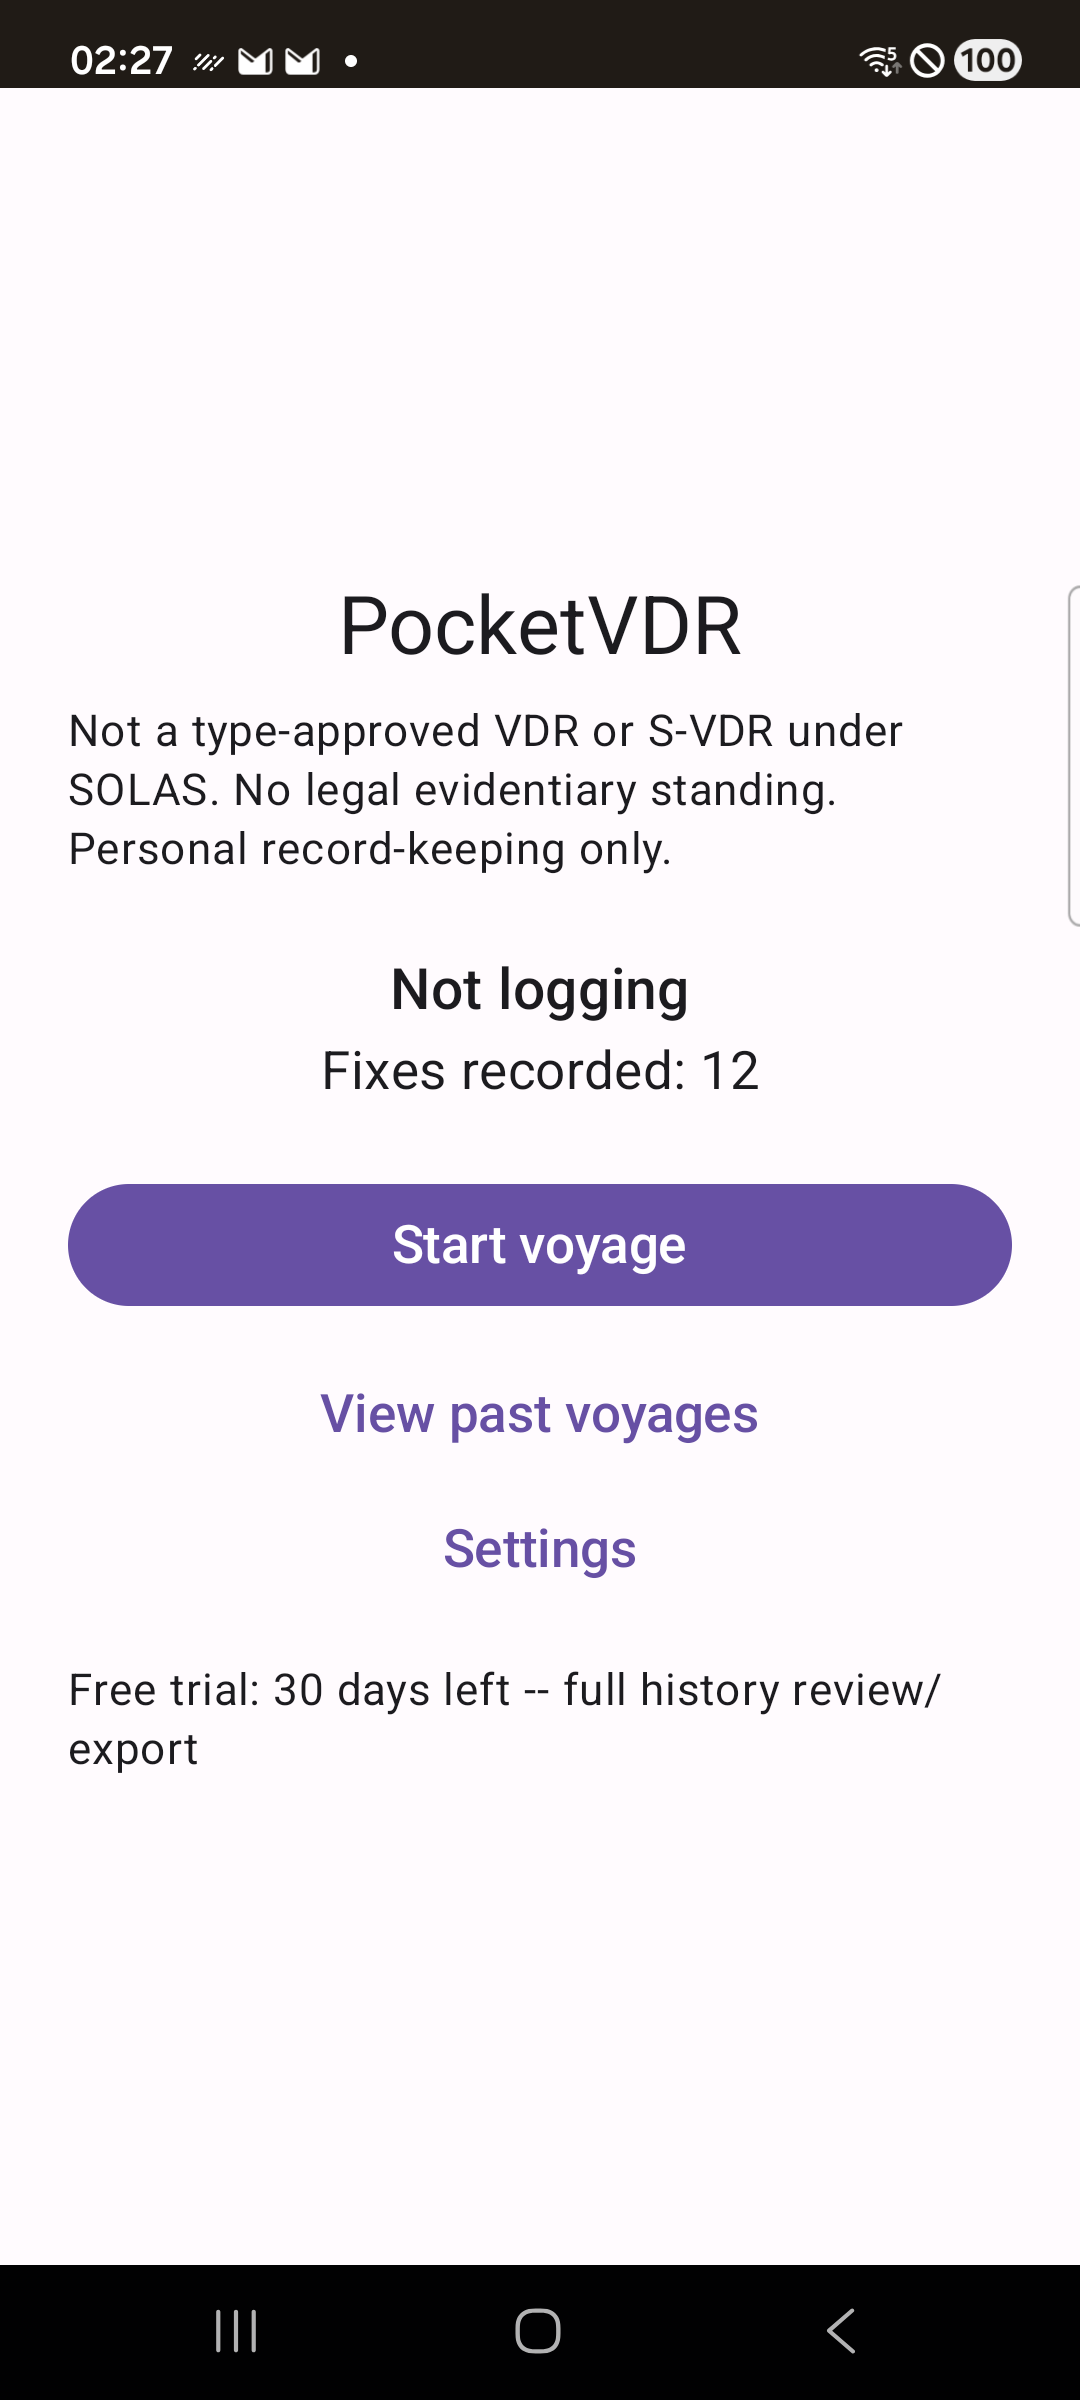
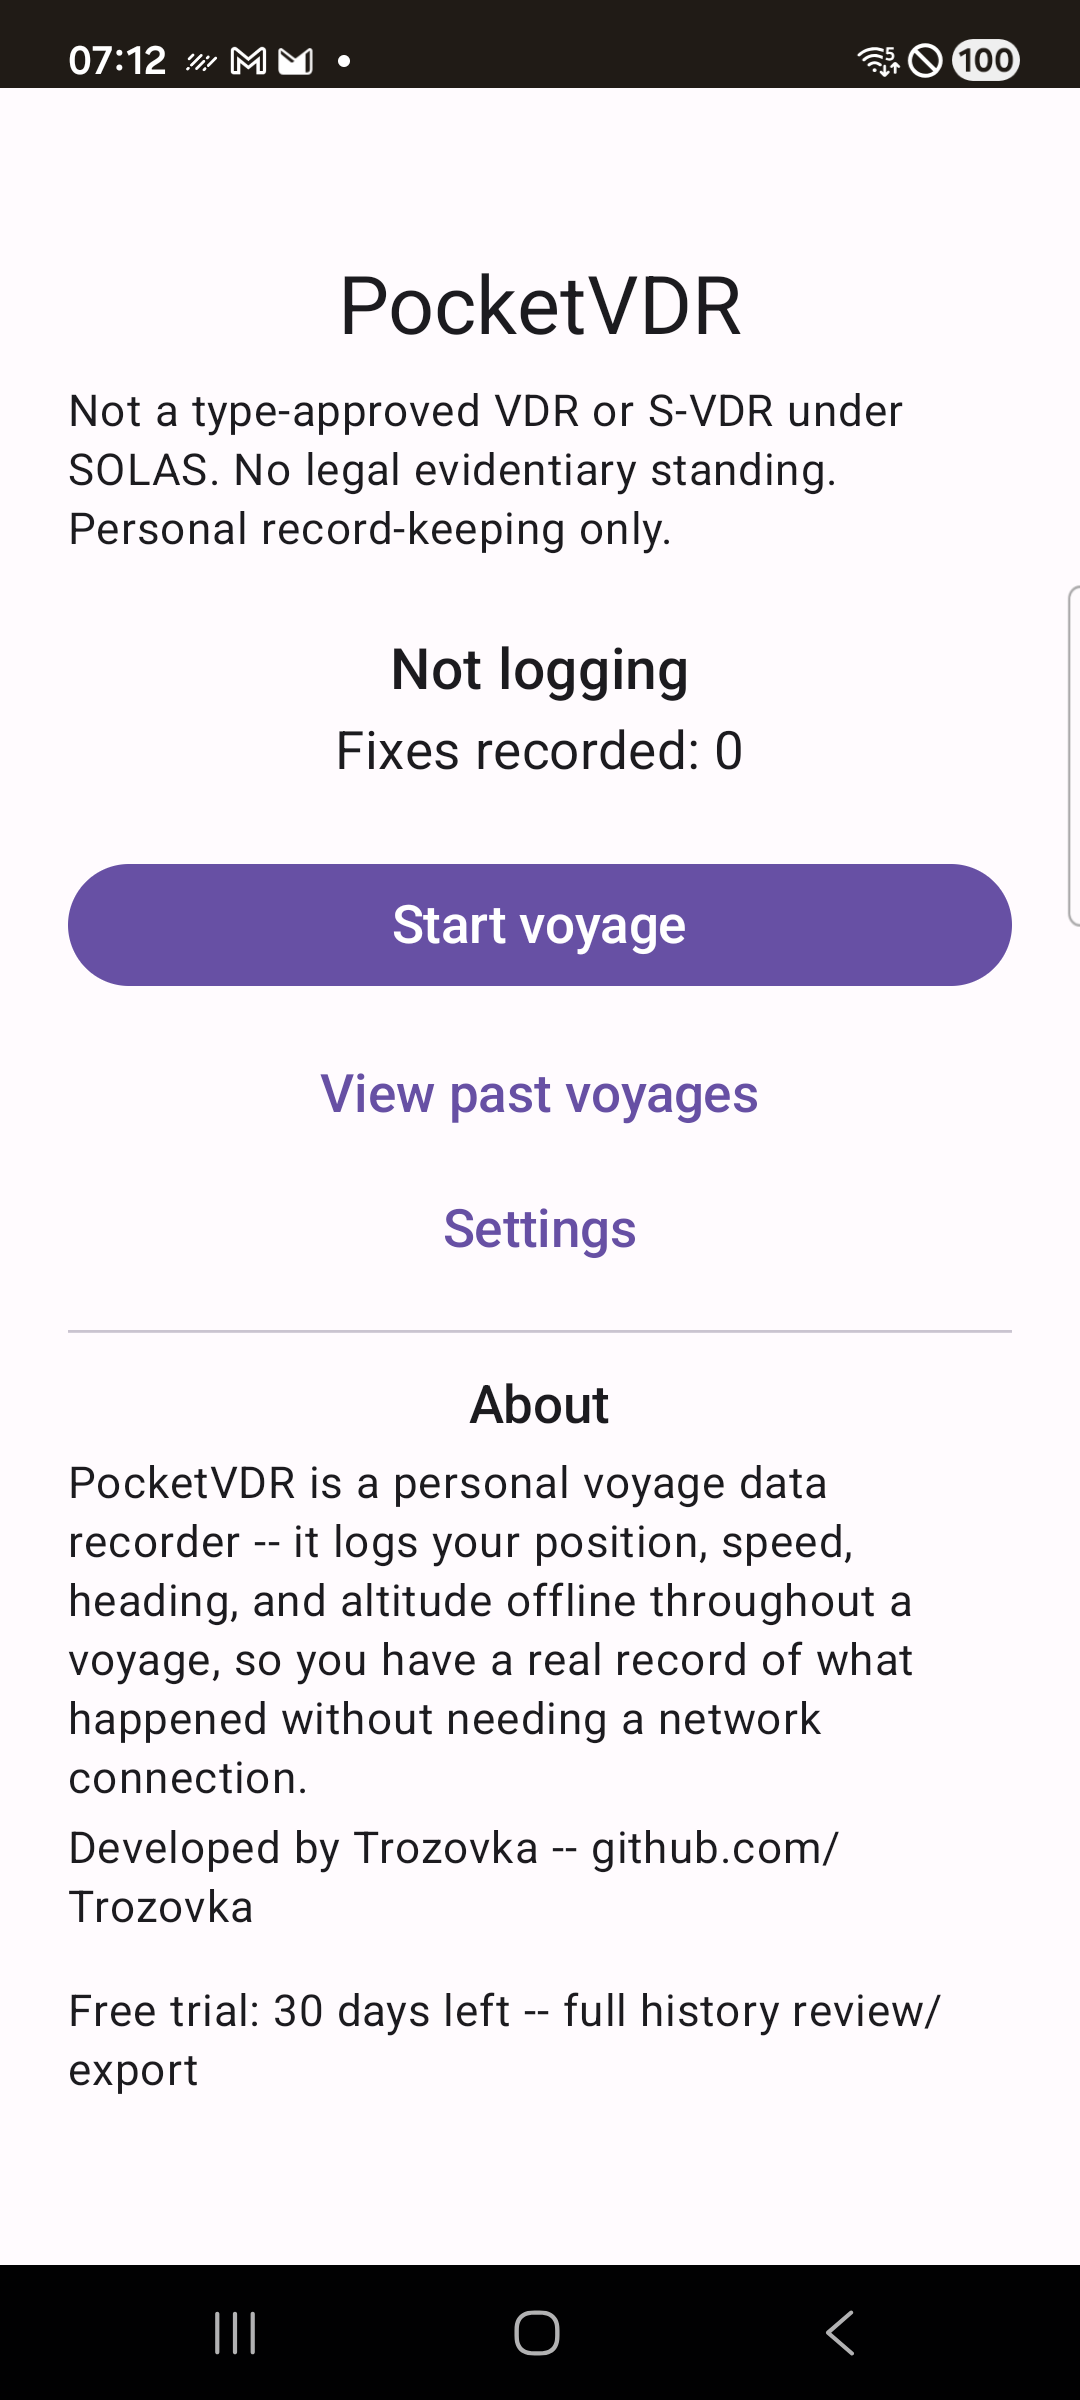
Update README, listing copy, and screenshots for the operator-feedback pass
Fresh screenshots showing the About section, MARK INCIDENT button,
elapsed/satellite telemetry, and the mariner-style N/S/E/W position
format. Docs updated to describe the new About section, satellite
count, delete-voyage feature, three export formats, and the
N/S/E/W position display (with the negative=South/negative=West
convention now stated explicitly rather than left implicit).

diff --git a/README.md b/README.md
@@ -25,20 +25,27 @@ Developed by [Trozovka](https://github.com/Trozovka).
 
 ## Features
 
-- Logs position, UTC timestamp, speed, heading, and altitude at a configurable interval (default
-  7s, adjustable 5-60s in Settings) via `FusedLocationProviderClient` with a `LocationManager`
-  fallback
+- Logs position, UTC timestamp, speed, heading, altitude, and satellites used at a configurable
+  interval (default 7s, adjustable 5-60s in Settings) via `FusedLocationProviderClient` with a
+  `LocationManager` fallback, plus a live `GnssStatus` satellite count
 - Real Android foreground service with a partial wake lock -- keeps logging with the screen
   locked, survives Doze once you grant the battery-optimization exemption
-- A big **"Flag this moment"** button that instantly tags the current position with a timestamp
-  and an optional short note -- for a near-miss, weather event, or mechanical issue, findable
-  later without scrubbing through hours of track
-- Distinct "start voyage" / "stop voyage" sessions, with a list of past voyages you can reopen
+- Live telemetry while logging: fix count, elapsed voyage time, satellites used, and current
+  position
+- A big **"Mark Incident"** button that instantly tags the current position with a timestamp and
+  an optional short note -- for a near-miss, weather event, or mechanical issue, findable later
+  without scrubbing through hours of track
+- Distinct "start voyage" / "stop voyage" sessions, with a list of past voyages you can reopen or
+  permanently delete
 - Review screen: the track plotted on a simple offline canvas (deliberately not map tiles -- see
-  "Why no map tiles" below), a timeline scrubber, and a tap-to-jump list of flagged events
-- Export a selected time range (or the whole voyage) as GPX or as a plain NMEA 0183 text file --
-  useful for OpenCPN, Google Earth, or handing to an insurer/surveyor, but the app is fully useful
-  without ever opening any of those
+  "Why no map tiles" below), a timeline scrubber, and a tap-to-jump list of marked events
+- Positions are shown as `xx.xxxxx N/S, yyy.yyyyy E/W` throughout the app and in the plain-text
+  export, not raw signed decimal degrees -- negative latitude is South, negative longitude is
+  West, the standard convention, just spelled out instead of left as a bare sign
+- Export a selected time range (or the whole voyage) as GPX, plain NMEA 0183, or a plain-text log
+  readable in Notepad/WordPad -- GPX/NMEA for OpenCPN, Google Earth, or ECDIS-class chartplotters;
+  the plain-text log for handing to an insurer, surveyor, or anyone without navigation software.
+  The app is fully useful without ever opening any of those
 - Free for 30 days from first launch with unlimited history review/export; after that, logging
   stays unlimited forever, and review/export narrows to the last 24 hours or the current voyage --
   see [Licensing](#licensing) below

diff --git a/gumroad-assets/LISTING_COPY.md b/gumroad-assets/LISTING_COPY.md
@@ -29,16 +29,20 @@ phone's own GPS chip and local storage — no cloud round-trip, nothing that can
 boat is out of range.
 
 **What's free:**
-- Full logging — position, UTC time, speed, heading, altitude, at a configurable 5-60s interval
+- Full logging — position, UTC time, speed, heading, altitude, and satellites used, at a
+  configurable 5-60s interval
 - Runs as a real foreground service — keeps working with the screen locked, survives Doze/battery
   optimization once you grant the exemption
-- A big "Flag this moment" button — instantly tag a near-miss, weather event, or mechanical issue
+- Live telemetry while logging: fix count, elapsed voyage time, satellites used, current position
+- A big "Mark Incident" button — instantly tag a near-miss, weather event, or mechanical issue
   with a timestamp and optional note, findable later without scrubbing through hours of track
-- Distinct voyage sessions with a list of past voyages you can reopen
+- Distinct voyage sessions with a list of past voyages you can reopen or permanently delete
 - A review screen: track plotted on a simple offline canvas, a timeline scrubber, and a
-  tap-to-jump list of your flagged events
-- Export any voyage (or just a selected time range) as GPX or plain NMEA 0183 — opens in OpenCPN
-  or Google Earth, or hand it to an insurer/surveyor, though you never need either to use the app
+  tap-to-jump list of your marked events
+- Positions shown mariner-style — `xx.xxxxx N/S, yyy.yyyyy E/W` — not raw signed decimals
+- Export any voyage (or just a selected time range) as GPX, plain NMEA 0183, or a plain-text log
+  readable in Notepad/WordPad — GPX/NMEA open in OpenCPN, Google Earth, or ECDIS-class
+  chartplotters; the text log is for handing to an insurer or surveyor with no special software
 - Free for 30 days from first launch, with unlimited history review and export. After that,
   logging keeps working forever unlimited — only review/export narrows to the last 24 hours (or
   your current voyage). See PocketVDR Pro for unlimited history, permanently.
